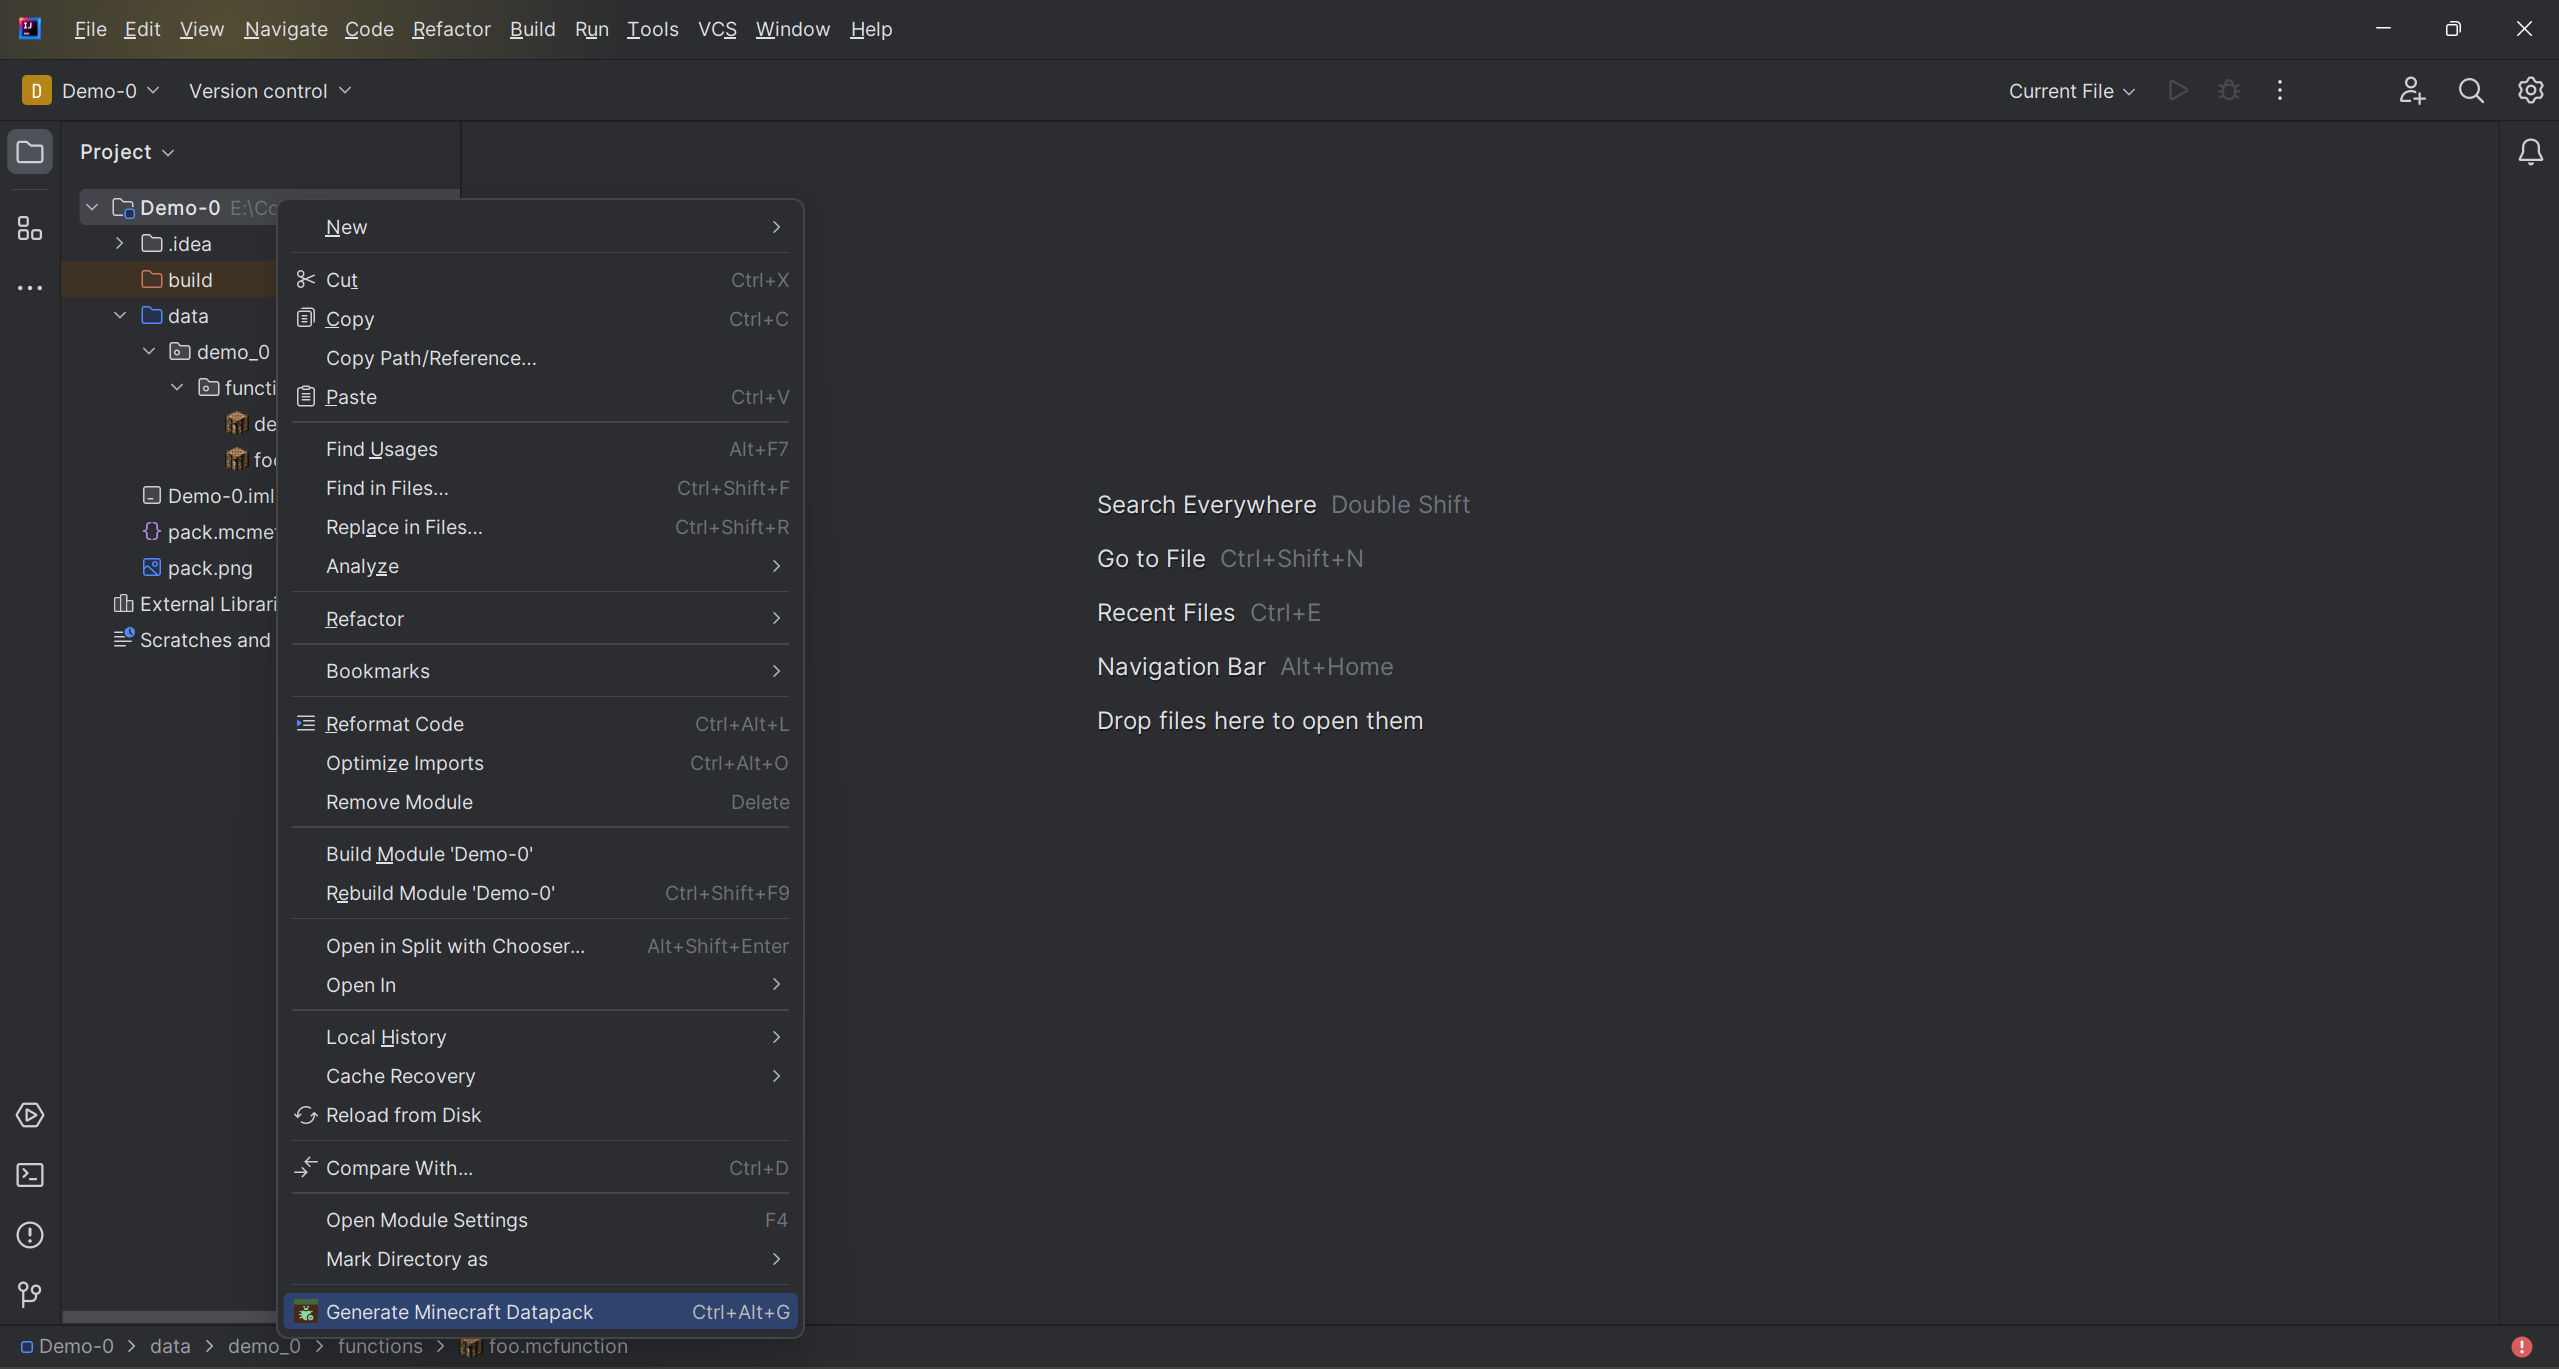
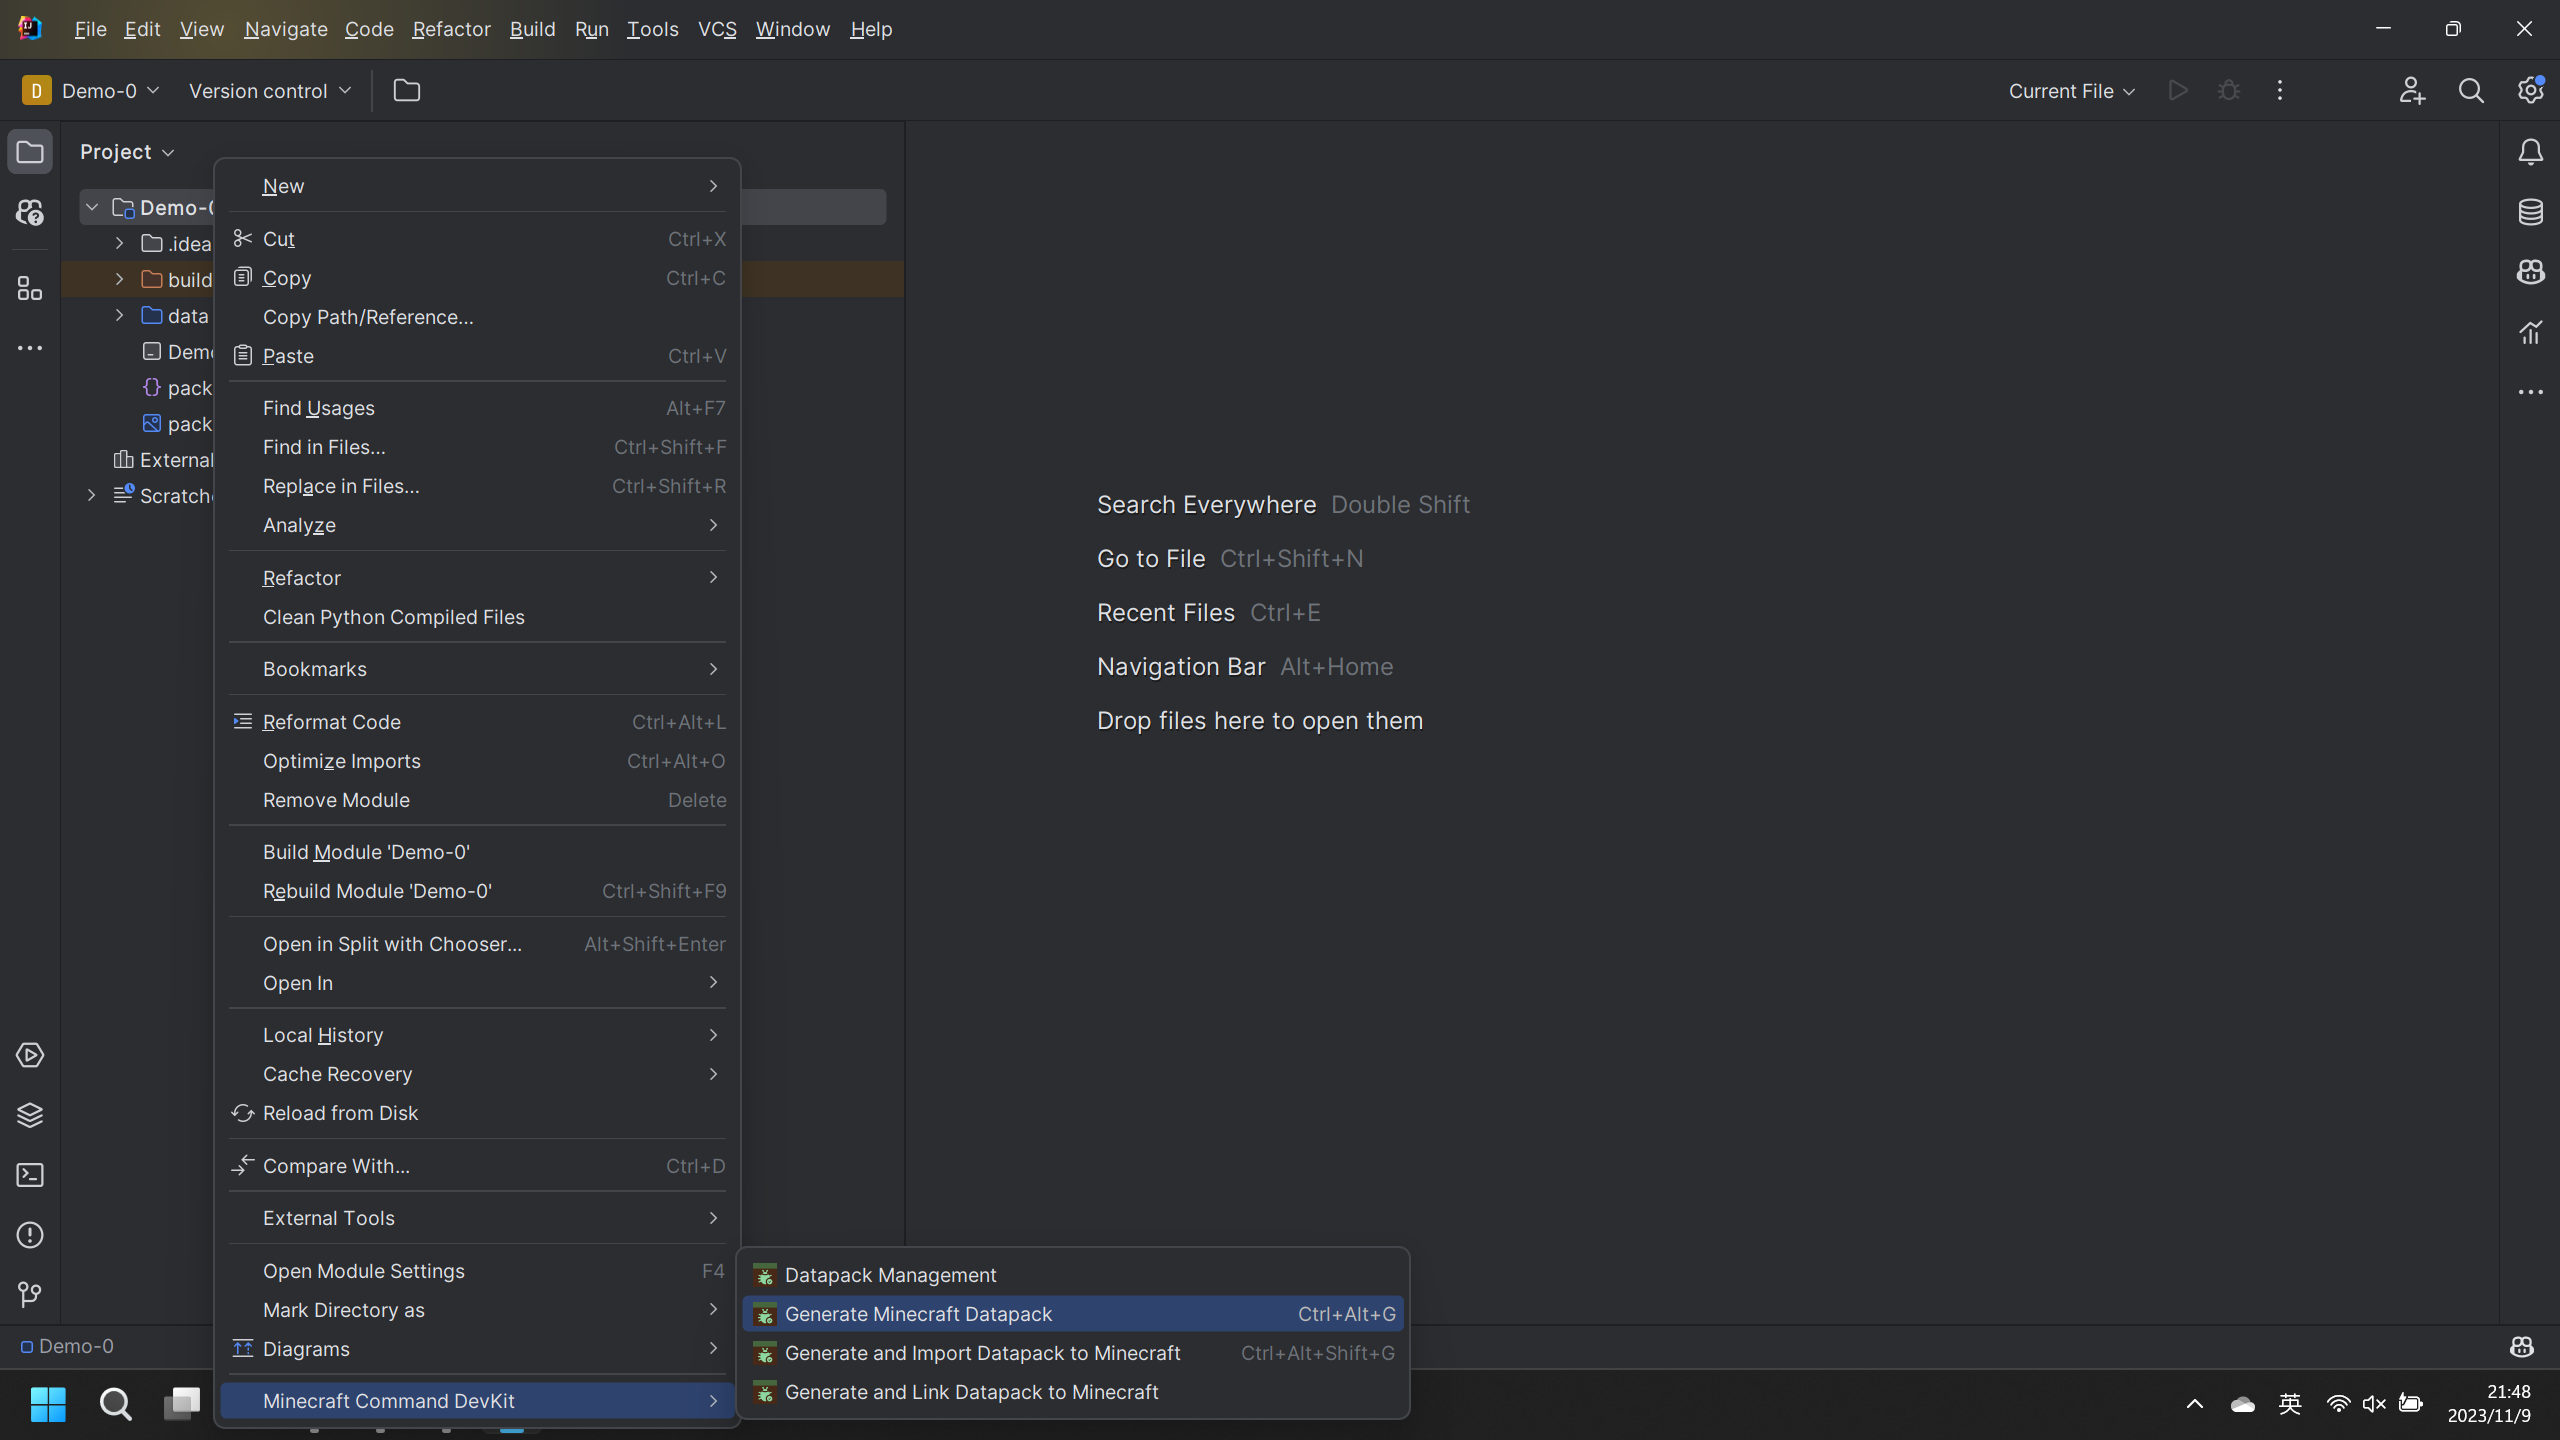
adjust README.md for mod 3.x

diff --git a/README.md b/README.md
@@ -200,7 +200,7 @@ or [![Quilted Fabric API](https://img.shields.io/badge/Quilted%20Fabric%20API-00
 #### Generate Minecraft Datapack
 
 1. There are two ways to start the task to generate a datapack:
-   - Right click the project view and click `Generate Minecraft Datapack` in the context menu.
+   - Right click the project view and click `Minecraft Command DevKit` -> `Generate Minecraft Datapack` in the context menu.
       <details>
          <summary></summary>
          <img src=".doc/plugin/i4000.png" alt="generate datapack"/>
@@ -220,13 +220,60 @@ or [![Quilted Fabric API](https://img.shields.io/badge/Quilted%20Fabric%20API-00
       <img src=".doc/plugin/i4002.png" alt="generate datapack"/>
       <center>Click <code>Generate</code> to start the task</center>
    </details>
+    
+   > Tips: `Generate and Import/Link Datapact to Minecraft` are similar to `Generate Minecraft Datapack`, 
+   > but they require the user to fill in the host and port of the `Datapack Management Service` socket server.
+   > For `Import`, the generated datapack will be copied to the current world's datapack folder,
+   > and for `Link`, the generated datapack will be linked to the current world's datapack folder and expired when the world is closed.
+
+#### Datapack Management
+
+1. There are two ways to start the task to manage the datapack:
+    - Click `Tools` -> `Minecraft Command DecKit` -> `Datapack Management` from the main menu bar:
+       <details>
+          <summary></summary>
+          <img src=".doc/plugin/i5000.png" alt="manage datapack"/>
+          <center>Click <code>Manage Datapack</code> from the main menu bar</center>
+       </details>
+      
+   - Right click the project view and click `Minecraft Command DevKit` -> `Datapack Managment` in the context menu.
+      <details>
+         <summary></summary>
+         <img src=".doc/plugin/i5001.png" alt="manage datapack"/>
+         <center>Right click the project view and click <code>Manage Datapack</code> in the context menu</center>
+      </details>
+    
+2. Input the host and port of `Datapack Management Service` socket server shown in the Minecraft game.
+   <details>
+      <summary></summary>
+      <img src=".doc/plugin/i5002.png" alt="manage datapack"/>
+      <center>Input the host and port of <code>Datapack Management Service</code> socket server</center>
+   </details>
+
+3. Do your operations.
+   1. Right-click the item in `Datapacks` -> `Status` -> `Enabled` and click `Disable` to disable the datapack.
+   2. Right-click the item in `Datapacks` -> `Status` -> `Available` and click `Enable` to enable the datapack.
+   3. Right-click `Datapacks` -> `Type` -> `Common` and click `Import...` to import a datapack.
+   4. Right-click `Datapacks` -> `Type` -> `Common` and click `Link...` to link a datapack.
+   
+   <details>
+      <summary></summary>
+      <img src=".doc/plugin/i5003.png" alt="manage datapack"/>
+      <center>Datapack Management View</center>
+   </details>
+
+   > Tips: <br>
+   > &nbsp;&nbsp;&nbsp;&nbsp;This feature is with the requirement `3.x` version of the mod.<br>
+   > &nbsp;&nbsp;&nbsp;&nbsp;Only the world is opened, the `Datapack Management Service` socket server will be valid.<br>
+   > &nbsp;&nbsp;&nbsp;&nbsp;The linked datapack will be expired when the world is closed, and the imported datapack will be copied to the world's datapack folder. <br>
+   > * For more info, please visit [DEV.md](DEV.md#concepts).
 
 ### Command Line Tool
 
 * You can also use the [IDE Debug Tool](#ide-debug-tool) to connect to the socket server and execute the code.
    <details>
       <summary></summary>
-      <img src=".doc/cmd/i5001.png" alt="command line tool"/>
+      <img src=".doc/cmd/c0001.png" alt="command line tool"/>
       <center>Command Line Tool</center>
    </details>
 
@@ -249,11 +296,11 @@ the only thing you need to do is make your tool has the ability to connect to th
 ### Concepts
 - For `3.x` version, the mod will create two socket servers, one for code completion and one for code execution, whatever the mod is for `Fabric` or `Quilt`.
 
-    |      Server      |     Type      |                  Description                  |                                              Accepted Message                                               |   Returned Message   |
-    |:----------------:|:-------------:|:---------------------------------------------:|:-----------------------------------------------------------------------------------------------------------:|:--------------------:|
-    | Code Completion  | Socket Server |        The server for code completion         |                                  single line command or unfinished command                                  | multiple line result |
-    |  Code Execution  | Socket Server | The server for command execution in Minecraft |                                             single line command                                             | execution feedbacks  |
-    | Datapack Receive | Socket Server |  The server for receive datapack from client  | json string without `\n` like `{ "name": "[name].zip", "data": "[base64 encoded data]", "flag": "import" }` |         None         |
+    |       Server        |     Type      |                  Description                  |                                              Accepted Message                                               |   Returned Message   |
+    |:-------------------:|:-------------:|:---------------------------------------------:|:-----------------------------------------------------------------------------------------------------------:|:--------------------:|
+    |   Code Completion   | Socket Server |        The server for code completion         |                                  single line command or unfinished command                                  | multiple line result |
+    |   Code Execution    | Socket Server | The server for command execution in Minecraft |                                             single line command                                             | execution feedbacks  |
+    | Datapack Management | Socket Server |  The server for receive datapack from client  | json string without `\n` like `{ "name": "[name].zip", "data": "[base64 encoded data]", "flag": "import" }` |         None         |
 - Tips: the message sent is a single line of text, you should add `\n` at the end of the message or auto flush the buffer to send the message to the server.
 
 ### More Information
